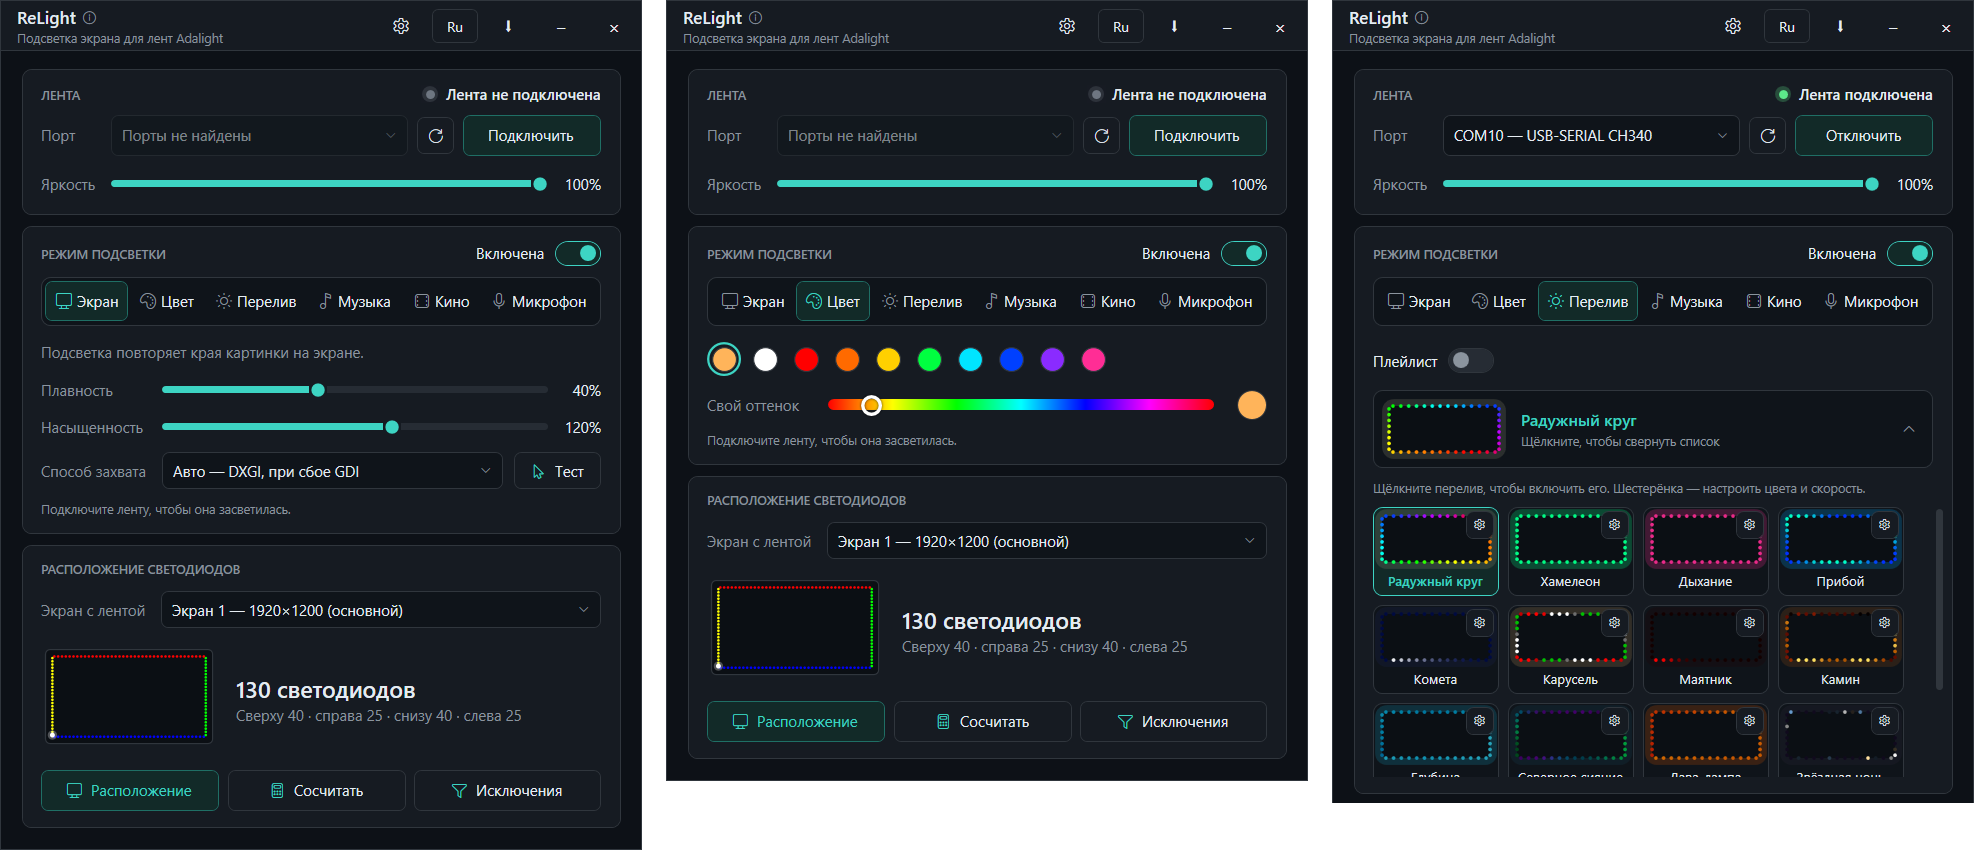
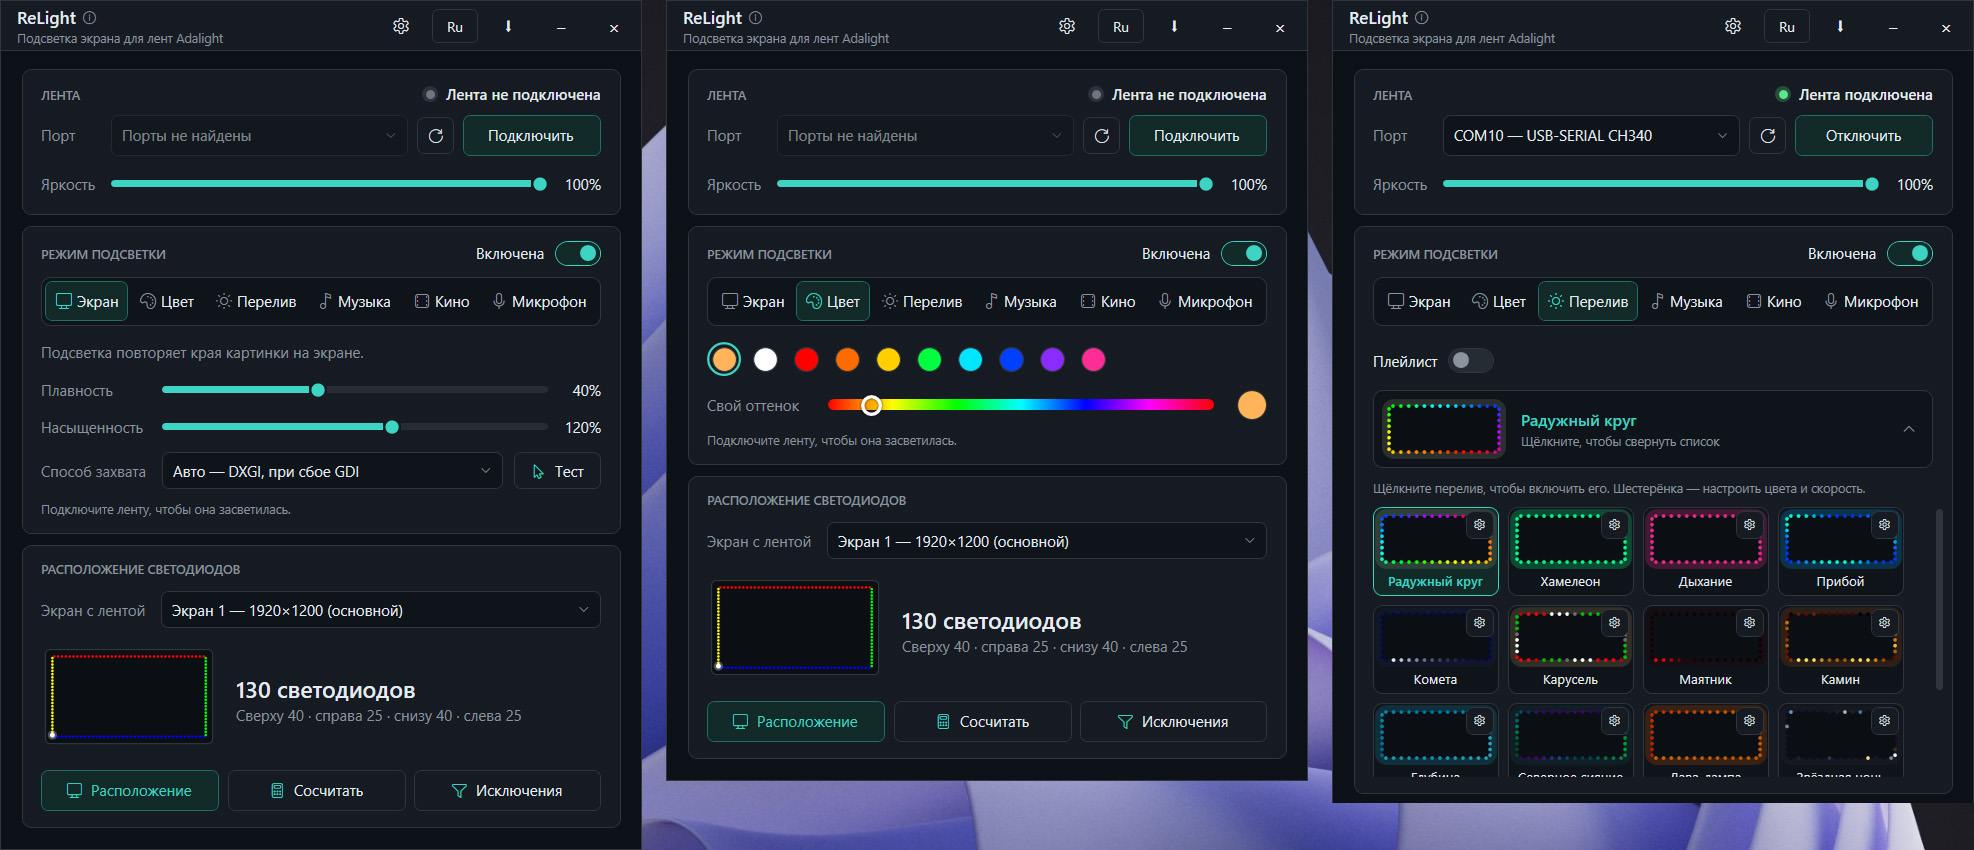
ReLight 1.2

Changed region(s): [[0.309, 0.0, 1.0, 1.0]]

diff --git a/src/ReLight/ExclusionsWindow.xaml b/src/ReLight/ExclusionsWindow.xaml
@@ -125,18 +125,19 @@
                                 <ColumnDefinition Width="*"/>
                                 <ColumnDefinition Width="Auto"/>
                             </Grid.ColumnDefinitions>
+                            <!-- Equal fixed rows: the color square is taller than a bare combo box, so Auto rows would differ -->
                             <Grid.RowDefinitions>
-                                <RowDefinition Height="Auto"/>
-                                <RowDefinition Height="Auto"/>
-                                <RowDefinition Height="Auto"/>
+                                <RowDefinition Height="46"/>
+                                <RowDefinition Height="46"/>
+                                <RowDefinition Height="46"/>
                             </Grid.RowDefinitions>
                             <CheckBox x:Name="UnityBox" Content="{DynamicResource Loc.ex.unity}" VerticalAlignment="Center" Click="Engine_Click"/>
-                            <ContentControl x:Name="UnityEditor" Grid.Column="1" Margin="0,0,0,8"/>
+                            <ContentControl x:Name="UnityEditor" Grid.Column="1" VerticalAlignment="Center"/>
                             <CheckBox x:Name="UnrealBox" Grid.Row="1" Content="{DynamicResource Loc.ex.unreal}" VerticalAlignment="Center" Click="Engine_Click"/>
-                            <ContentControl x:Name="UnrealEditor" Grid.Row="1" Grid.Column="1" Margin="0,0,0,8"/>
+                            <ContentControl x:Name="UnrealEditor" Grid.Row="1" Grid.Column="1" VerticalAlignment="Center"/>
                             <CheckBox x:Name="PlayersBox" Grid.Row="2" Content="{DynamicResource Loc.ex.players}" VerticalAlignment="Center"
                                       ToolTip="{DynamicResource Loc.ex.players.tip}" Click="Engine_Click"/>
-                            <ContentControl x:Name="PlayersEditor" Grid.Row="2" Grid.Column="1"/>
+                            <ContentControl x:Name="PlayersEditor" Grid.Row="2" Grid.Column="1" VerticalAlignment="Center"/>
                         </Grid>
                         <TextBlock Style="{StaticResource Rl.Muted}" FontSize="11" Margin="0,10,0,0" Text="{DynamicResource Loc.ex.engines.hint}"/>
                     </StackPanel>

diff --git a/src/ReLight/MainWindow.xaml b/src/ReLight/MainWindow.xaml
@@ -15,6 +15,9 @@
         FontFamily="{StaticResource Rl.Font}"
         FontSize="13"
         UseLayoutRounding="True">
+    <Window.RenderTransform>
+        <ScaleTransform x:Name="TrayHideScale" ScaleX="1" ScaleY="1"/>
+    </Window.RenderTransform>
     <shell:WindowChrome.WindowChrome>
         <shell:WindowChrome CaptionHeight="44" ResizeBorderThickness="0" GlassFrameThickness="0"
                             CornerRadius="0" UseAeroCaptionButtons="False"/>

diff --git a/src/ReLight/MainWindow.xaml.cs b/src/ReLight/MainWindow.xaml.cs
@@ -4,6 +4,7 @@ using System.Windows.Controls;
 using System.Windows.Controls.Primitives;
 using System.Windows.Interop;
 using System.Windows.Media;
+using System.Windows.Media.Animation;
 using System.Windows.Shapes;
 using System.Windows.Threading;
 using ReLight.Audio;
@@ -95,6 +96,7 @@ public partial class MainWindow : Window
         _tray = new TrayService(this, _settings);
         _tray.OpenRequested += ShowFromTray;
         _tray.SettingsRequested += () => Settings_Click(this, new RoutedEventArgs()); // alone, the main window stays hidden
+        _tray.ExclusionsRequested += () => Exclusions_Click(this, new RoutedEventArgs()); // the same: alone when hidden
         _tray.ExitRequested += ExitApp;
         _tray.ToggleRequested += () => SetLight(!_settings.LightOn);
         _tray.ModeRequested += SetMode;
@@ -596,10 +598,23 @@ public partial class MainWindow : Window
     [System.Runtime.InteropServices.DllImport("user32.dll")]
     static extern bool UnhookWinEvent(IntPtr hook);
 
+    ExclusionsWindow? _exclusionsWindow;
+
     void Exclusions_Click(object sender, RoutedEventArgs e)
     {
+        if (_exclusionsWindow != null) { _exclusionsWindow.Activate(); return; } // already open (from the tray again)
         // Changes work at once (the window calls back after each one); Cancel puts the old ones back.
-        var window = new ExclusionsWindow(_settings) { Owner = this };
+        var window = new ExclusionsWindow(_settings);
+        // Over the main window when it is on screen; from the tray with the window hidden, on its own.
+        if (!IsVisible || WindowState == WindowState.Minimized)
+        {
+            window.WindowStartupLocation = WindowStartupLocation.CenterScreen;
+            window.ShowInTaskbar = true;
+        }
+        else
+            window.Owner = this;
+        _exclusionsWindow = window;
+        window.Closed += (_, _) => _exclusionsWindow = null;
         window.Applied += ScanExclusions;
         if (window.ShowDialog() == true) _settings.Save();
         ScanExclusions();
@@ -919,17 +934,113 @@ public partial class MainWindow : Window
 
     void About_Click(object sender, RoutedEventArgs e) => AboutWindow.ShowFor(this);
 
-    void ToTray_Click(object sender, RoutedEventArgs e) => Hide();
+    void ToTray_Click(object sender, RoutedEventArgs e) => HideToTray();
 
     void Minimize_Click(object sender, RoutedEventArgs e) => WindowState = WindowState.Minimized;
 
     void Close_Click(object sender, RoutedEventArgs e) => Close();
 
+    // ---------- flying to the tray and back ----------
+
+    const int TrayFlyMs = 400;
+    const double TrayFlyEndScale = 0.14;
+    bool _trayAnimating;
+
+    /// <summary>Slides the window down towards the tray corner while it fades, then hides it.</summary>
+    void HideToTray()
+    {
+        if (_trayAnimating) return;
+        if (!IsVisible || WindowState == WindowState.Minimized) { Hide(); return; }
+        _trayAnimating = true;
+        double left = Left, top = Top;
+        var (endLeft, endTop) = TrayFlyTarget(left, top);
+        var sb = TrayFlight(left, endLeft, top, endTop, Opacity, 0, TrayFlyEndScale, new CubicEase { EasingMode = EasingMode.EaseIn });
+        sb.Completed += (_, _) =>
+        {
+            EndTrayFlight(sb, left, top);
+            Hide();
+        };
+        sb.Begin(this, true);
+    }
+
     public void ShowFromTray()
     {
+        if (IsVisible || _trayAnimating)
+        {
+            if (WindowState == WindowState.Minimized) WindowState = WindowState.Normal;
+            Activate();
+            return;
+        }
+        // The way back: from the tray corner to where the window was.
+        _trayAnimating = true;
+        double left = Left, top = Top;
+        var (startLeft, startTop) = TrayFlyTarget(left, top);
+        Left = startLeft;
+        Top = startTop;
+        Opacity = 0;
         Show();
-        if (WindowState == WindowState.Minimized) WindowState = WindowState.Normal;
-        Activate();
+        WindowState = WindowState.Normal;
+        var sb = TrayFlight(startLeft, left, startTop, top, 0, 1, 1, new CubicEase { EasingMode = EasingMode.EaseOut });
+        sb.Completed += (_, _) =>
+        {
+            EndTrayFlight(sb, left, top);
+            Activate();
+        };
+        sb.Begin(this, true);
+    }
+
+    Storyboard TrayFlight(double fromLeft, double toLeft, double fromTop, double toTop, double fromOpacity, double toOpacity,
+        double toScale, IEasingFunction easing)
+    {
+        var duration = TimeSpan.FromMilliseconds(TrayFlyMs);
+        var sb = new Storyboard();
+        void Add(DependencyObject target, DependencyProperty property, double from, double to)
+        {
+            var animation = new DoubleAnimation(from, to, duration) { EasingFunction = easing };
+            Storyboard.SetTarget(animation, target);
+            Storyboard.SetTargetProperty(animation, new PropertyPath(property));
+            sb.Children.Add(animation);
+        }
+        Add(this, LeftProperty, fromLeft, toLeft);
+        Add(this, TopProperty, fromTop, toTop);
+        Add(this, OpacityProperty, fromOpacity, toOpacity);
+        Add(TrayHideScale, ScaleTransform.ScaleXProperty, TrayHideScale.ScaleX, toScale);
+        Add(TrayHideScale, ScaleTransform.ScaleYProperty, TrayHideScale.ScaleY, toScale);
+        return sb;
+    }
+
+    /// <summary>Drops the animations and puts the window back in place, whole and opaque.</summary>
+    void EndTrayFlight(Storyboard sb, double left, double top)
+    {
+        sb.Remove(this);
+        BeginAnimation(LeftProperty, null);
+        BeginAnimation(TopProperty, null);
+        BeginAnimation(OpacityProperty, null);
+        TrayHideScale.BeginAnimation(ScaleTransform.ScaleXProperty, null);
+        TrayHideScale.BeginAnimation(ScaleTransform.ScaleYProperty, null);
+        Left = left;
+        Top = top;
+        Opacity = 1;
+        TrayHideScale.ScaleX = TrayHideScale.ScaleY = 1;
+        _trayAnimating = false;
+    }
+
+    /// <summary>Where the window flies: the bottom of the work area, a third of the way towards its right corner.</summary>
+    (double Left, double Top) TrayFlyTarget(double left, double top)
+    {
+        double w = ActualWidth > 0 ? ActualWidth : Width, h = ActualHeight > 0 ? ActualHeight : Height;
+        var area = SystemParameters.WorkArea;
+        try
+        {
+            var screen = System.Windows.Forms.Screen.FromHandle(new WindowInteropHelper(this).EnsureHandle()).WorkingArea;
+            if (PresentationSource.FromVisual(this)?.CompositionTarget is { } target)
+            {
+                var corner = target.TransformFromDevice.Transform(new Point(screen.Right, screen.Bottom));
+                area = new Rect(0, 0, corner.X, corner.Y);
+            }
+        }
+        catch { } // the primary work area then
+        return (left + (area.Right - w - left) * 0.38, area.Bottom - h);
     }
 
     void ExitApp()
@@ -943,7 +1054,7 @@ public partial class MainWindow : Window
         if (!_exiting && _settings.CloseToTray)
         {
             e.Cancel = true;
-            Hide();
+            HideToTray();
             return;
         }
         Loc.Changed -= ApplyTexts;

diff --git a/src/ReLight/Services/TrayService.cs b/src/ReLight/Services/TrayService.cs
@@ -22,6 +22,7 @@ public sealed class TrayService : IDisposable
 
     public event Action? OpenRequested;
     public event Action? SettingsRequested;
+    public event Action? ExclusionsRequested;
     public event Action? ExitRequested;
     public event Action? ToggleRequested;
     public event Action<LightMode>? ModeRequested;
@@ -56,6 +57,7 @@ public sealed class TrayService : IDisposable
         var menu = new ContextMenu();
         menu.Items.Add(Item(Loc.T("tray.open"), () => OpenRequested?.Invoke()));
         menu.Items.Add(Item(Loc.T("tip.settings"), () => SettingsRequested?.Invoke()));
+        menu.Items.Add(Item(Loc.T("ex.button"), () => ExclusionsRequested?.Invoke()));
         menu.Items.Add(new Separator());
         // The item says what a click does; its dot shows the state now: green lit, red off.
         var power = Item(Loc.T(_settings.LightOn ? "tray.light.off" : "tray.light.on"), () => ToggleRequested?.Invoke());
